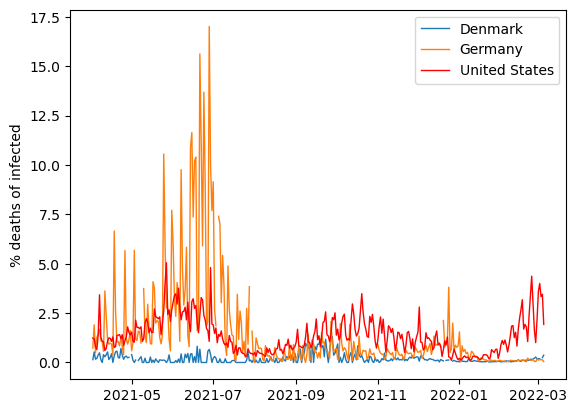
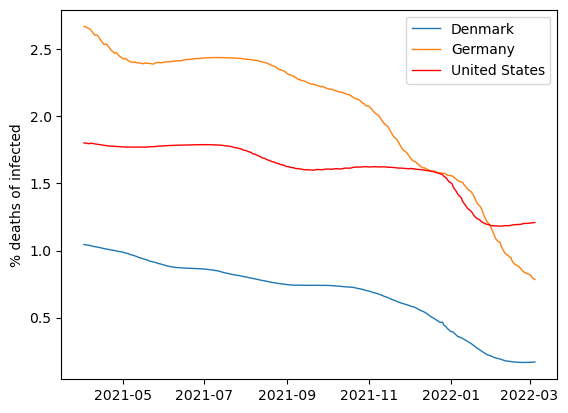
handin 2 done

diff --git a/notebooks/my_notebooks/hand_in_2/main.py b/notebooks/my_notebooks/hand_in_2/main.py
@@ -1,0 +1,89 @@
+from unicodedata import numeric
+from selenium import webdriver
+from selenium.webdriver.firefox.options import Options
+from selenium import webdriver
+import bs4
+import pandas as pd
+import matplotlib as mpl
+# reset defaults because we change them further down this notebook
+mpl.rcParams.update(mpl.rcParamsDefault)
+import matplotlib.pyplot as plt
+
+url = 'https://www.boligportal.dk'
+
+profile = webdriver.FirefoxProfile()
+profile.set_preference("general.useragent.override", "Mozilla/5.0 (X11; Ubuntu; Linux x86_64; rv:81.0) Gecko/20100101 Firefox/81.0")
+
+# headless is needed here because we do not have a GUI version of firefox
+options = Options()
+options.headless = True
+browser = webdriver.Firefox(options=options, executable_path=r'/tmp/geckodriver')
+
+
+browser.get(url)
+browser.implicitly_wait(2)
+button = browser.find_element_by_id('declineButton')
+button.click()
+
+
+search_field = browser.find_element_by_class_name("HomePageSearchBar")
+search_field.send_keys('københavn')
+autocompleteList = browser.find_elements_by_css_selector("#app > div.css-1w8perf > div > div > div.css-jlp53q > div.css-ahwvt > div > div > ul > li:nth-child(1)")
+autocompleteList[0].click()
+
+
+
+d= []
+i = 1
+go = True
+while go:
+    i += 1
+    browser.implicitly_wait(4)
+    soup = bs4.BeautifulSoup(browser.page_source, 'html.parser')
+    annoncer = soup.select("#app > div:nth-child(3) > div:nth-child(1) > div > div > div.temporaryFlexColumnClassName.css-ssqjpe > div.css-lakxun > div.css-1noaovx > div")
+    nextButton = browser.find_element_by_css_selector("#app > div:nth-child(3) > div:nth-child(1) > div > div > div.temporaryFlexColumnClassName.css-ssqjpe > div.css-pto9tz > div > div > button:nth-child(4)")
+    nextButton.click()
+    for e in annoncer:
+        t = e.find("div", class_="css-do1lz2").text
+        t = t.split(" · ")
+        kvadratMeter = t[2].split(" ")[0]
+
+        uploaded = e.find("span", class_="css-1bremdn").text
+        pris = e.find("span", class_="css-dpmn2u").text
+        pris = pris.replace("kr.", "")
+        pris = pris.replace(".", "")
+        
+        
+        print(pris)
+        if "time" in uploaded or "min" in uploaded:
+            data={'pris':int(pris), 'uploaded':uploaded, 'type': t[1], 'størrelse': int(kvadratMeter)}
+            d.append(data)
+        else:
+            print("stop: ", uploaded)
+            go = False
+            break
+            
+        
+    
+    
+
+df = pd.DataFrame(data=d)
+typer = df.type.value_counts()
+
+mpl.use("pdf")
+plt.bar(typer.index, typer.values, width=0.5, align='center')
+plt.xlabel("Type", fontsize=10)
+plt.ylabel("Antal", fontsize=10)
+plt.savefig('barchart.png',bbox_inches='tight')
+plt.close()
+
+df['avg_kv2_pris'] = df.pris.div(df.størrelse)
+
+means = df.groupby('type')['avg_kv2_pris'].mean()
+plt.bar(means.index, means.values, width=0.5, align='center')
+plt.xlabel("Type", fontsize=10)
+plt.ylabel("Gennemsnit kvm pris", fontsize=10)
+plt.savefig('barchart1.png',bbox_inches='tight')
+plt.close()
+print(means)
+print(df)

diff --git a/notebooks/my_notebooks/hand_in_1/main.py b/notebooks/my_notebooks/hand_in_1/main.py
@@ -38,7 +38,8 @@ plt.savefig('barchart.png',bbox_inches='tight')
 plt.close()
 print(no_4.index)
 
-df["death_vs_infected"] = df.new_deaths.div(df.new_cases)*100
+
+df["death_vs_infected"] = df.total_deaths.div(df.total_cases)*100
 
 denmark = df.loc[df['location'] == "Denmark"]
 usa = df.loc[df['location'] == "United States"]
